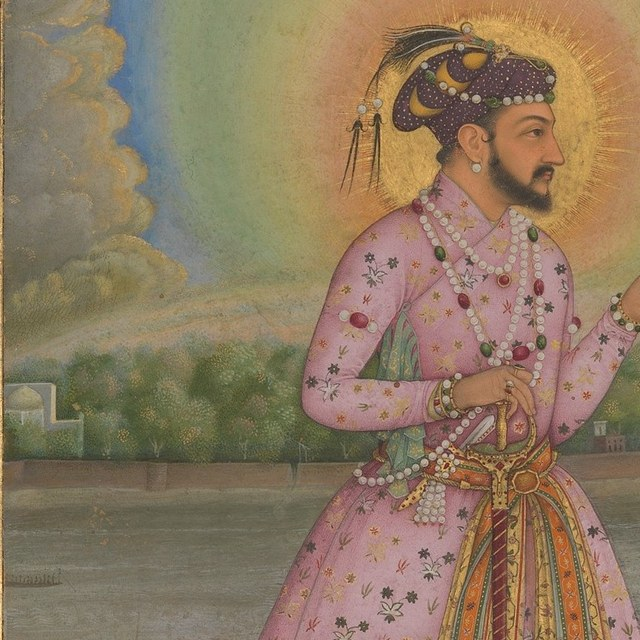
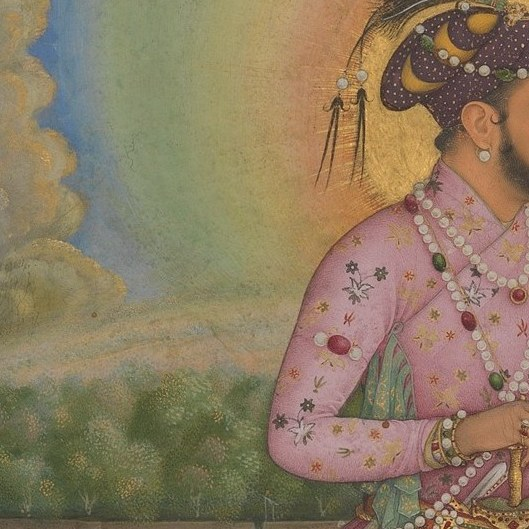
H5528: второй проход по находкам верификатора (clamp, px-норма, 3 бокса, red-line по MET)
- crop_fragment.py: clamp >2px → [warn] с фактическим центром (было молча);
  [warn] при фрагменте <500px; контактный лист 420px/ячейка
- перекроплены SM-002 (сцена «отпущены с почётом»), SM-005, SM-007 (деталь,
  не целая композиция), SM-003 (бокс внутрь листа, без clamp)
- README: честная формулировка (норма ~600px, код ≤640 без апскейла) + сноска
  на лист-ветку; CHANGELOG [Unreleased]
- review/genre-format-census_27-09-2026.md — сырые замеры жанра (8 образцов)
- red line №2: MET API 38038 = «A Lady Playing the Tanpura» (Women/Musicians),
  придворная дама, не богиня

diff --git a/tools/crop_fragment.py b/tools/crop_fragment.py
@@ -51,12 +51,16 @@ def crop_square(im, box, long_edge):
     side = max(64, int(round(frac * min(w, h))))
     x0 = int(round(cx * w - side / 2))
     y0 = int(round(cy * h - side / 2))
-    x0 = max(0, min(x0, w - side))
+    xc, yc = x0, y0                       # запрошенный угол
+    x0 = max(0, min(x0, w - side))        # clamp: угол внутри листа
     y0 = max(0, min(y0, h - side))
+    clamped = abs(x0 - xc) > 2 or abs(y0 - yc) > 2   # >2 px — не округление, а сдвиг
     frag = im.crop((x0, y0, x0 + side, y0 + side))
     if frag.size[0] > long_edge:
         frag = frag.resize((long_edge, long_edge), LANCZOS)
-    return frag, side
+    real_cx = (x0 + side / 2) / w
+    real_cy = (y0 + side / 2) / h
+    return frag, side, clamped, (real_cx, real_cy)
 
 
 def main():
@@ -83,7 +87,15 @@ def main():
         im = Image.open(master).convert("RGB")
         if max(im.size) < MIN_MASTER:
             warns.append(f"{cid}: мастер {im.size} < {MIN_MASTER} — фрагмент выйдет мягким, нужен пере-источник")
-        frag, side = crop_square(im, r["fragment_box"], args.long)
+        frag, side, clamped, real = crop_square(im, r["fragment_box"], args.long)
+        if clamped:
+            cx, cy, _ = parse_box(r["fragment_box"])
+            warns.append(f"{cid}: fragment_box вне диапазона — центр сдвинут "
+                         f"({cx:.2f},{cy:.2f} → {real[0]:.2f},{real[1]:.2f}); "
+                         f"уменьшите frac или сдвиньте cx,cy внутрь листа")
+        if side < 500:
+            warns.append(f"{cid}: фрагмент {side}px < 500 — жанровая норма ~600 px; "
+                         f"мастер мелкий, нужен пере-источник")
         out = os.path.join("images", "fragments", f"{cid}.jpg")
         frag.save(os.path.join(REPO, out), quality=88, optimize=True)
         r["fragment_file"] = out
@@ -105,7 +117,7 @@ def main():
         print(f"[ok] fragment_file проставлен в memes.tsv ({len(done)} строк)")
 
     if args.sheet and done:
-        cell, cols = 300, 4
+        cell, cols = 420, 4
         picked = [r for r in rows if (r.get("fragment_box") or "").strip()]
         picked = [r for r in picked if os.path.exists(os.path.join(REPO, r["fragment_file"] or
                                                                    os.path.join("images", "fragments", r["id"] + ".jpg")))]

diff --git a/CHANGELOG.md b/CHANGELOG.md
@@ -2,6 +2,8 @@
 
 ## [Unreleased]
 
+- **Второй проход 27-09-2026 по находкам парного верификатора (DeepSeek, класс publication):** молчаливый clamp `fragment_box` больше не глотается (>2 px сдвиг → `[warn]` с фактическим центром); добавлено предупреждение «фрагмент <500 px»; README перестал обещать «~600 px» как гарантию (норма жанра ~600, код ≤640 без апскейла); сырые замеры жанра сохранены файлом `review/genre-format-census_27-09-2026.md`. Перекроплены SM-002 (в кадр попала сцена «отпущены с почётом» — Рама отпускает лазутчиков), SM-005 и SM-007 (ужаты до детали, а не целой композиции), SM-003 (бокс внутрь листа). Красная линия №2 проверена по MET API: SM-006 = «A Lady Playing the Tanpura» (Kishangarh, теги Women/Musicians) — придворная дама, не богиня.
+
 - Формат изображения приведён к жанру: **фрагмент детали, не целый лист** (рулинг MG 27-09-2026, «вспоминаю кропнутые фрагменты и очень короткий текст» — подтверждено замером). Живой паблик `t.me/medieval_suffering`, 8 образцов подряд 27-09-2026: длинная сторона ровно ~600 px, 6 из 8 — квадрат (ar 0,97–1,11), «широкие» — тоже кропы. Введены колонки `fragment_box` (cx,cy,frac — доля меньшей стороны мастера) и `fragment_file`; нарезаны 7 фрагментов партии 1 (`images/fragments/*.jpg`), контактный лист `review/fragments_sheet.png`; новый инструмент `tools/crop_fragment.py` (Pillow, `--sheet`, `--write-tsv`); `gen_pilot_sheet.py` теперь показывает постимый фрагмент и не требует ровно 10 строк (после отклонения SM-008…010). Остаток: SM-003 (мастер 800×547) — пере-источник под правило «мастер ≥1500 px».
 
 ## [0.1.1] - 2026-09-26

diff --git a/README.md b/README.md
@@ -40,12 +40,22 @@ _Создан: 26-09-2026 · Мем-паблик «Страдающее Сред
 1. **Мастер** (`file`) остаётся целым листом — он провенанс и лицензия.
 2. **В пост уходит `fragment_file`** — квадратный кроп до смысловой детали;
    `fragment_box` = `cx,cy,frac` (центр в долях Ш/В, сторона квадрата — доля
-   меньшей стороны мастера), длинная сторона ≤ 640 px.
-3. **Мастер короче 1500 px в кропе мылит** — такой источник пере-искать
-   (SM-003 партии 1 идёт с пометкой).
-4. Кроп генерит `python3 tools/crop_fragment.py --sheet --write-tsv` (Pillow);
+   меньшей стороны мастера). Кроп не апскейлится: длинная сторона ≤ 640 px,
+   и если мастер мельче, инструмент предупреждает вместо тихого мыла.
+3. **Мастер короче 1500 px → пере-искать** (инструмент печатает `[warn]`
+   SM-003 партии 1: 800×547 → фрагмент 274 px).
+4. `fragment_box` вне листа инструмент **не глотает молча**: сдвиг >2 px →
+   `[warn]` с фактическим центром (найдено верификатором 27-09-2026,
+   исправлено там же).
+5. Кроп генерит `python3 tools/crop_fragment.py --sheet --write-tsv` (Pillow);
    контактный лист `review/fragments_sheet.png` — глазная проверка перед листом
    утверждения. Ручной кроп заменяемого мастера не требует: правится `fragment_box`.
+
+Замер жанра (8 образцов t.me/medieval_suffering, размеры сняты механически):
+[review/genre-format-census_27-09-2026.md](review/genre-format-census_27-09-2026.md).
+
+Сноска: лист утверждения партии 1 (26-09-2026) показывает **мастера** — он остаётся
+записью голосования MG; листы, собранные после 27-09-2026, показывают `fragment_file`.
 
 
 ## Реестр — memes.tsv

diff --git a/review/genre-format-census_27-09-2026.md b/review/genre-format-census_27-09-2026.md
@@ -1,0 +1,27 @@
+# Жанровый формат «Страдающего Средневековья» — сырые замеры (27-09-2026)
+
+Источник: живой паблик **t.me/medieval_suffering**, 8 подряд идущих постов со
+встроенными подписями (тексты постов служебные — подписи запечены в картинках).
+Снято: `python3 -c "from PIL import Image; ..."` (механически, 27-09-2026).
+
+| # | размер | ar (Ш/В) | класс |
+|---|--------|----------|-------|
+| 0 | 597×403 | 1,48 | широкий кроп (лицо крупным планом) |
+| 1 | 597×599 | 1,00 | квадрат (деталь Босха) |
+| 2 | 579×595 | 0,97 | квадрат (гравюра + речевые пузыри — вторичный формат) |
+| 3 | 598×596 | 1,00 | квадрат (деталь: монах с топором) |
+| 4 | 595×595 | 1,00 | квадрат |
+| 5 | 597×538 | 1,11 | квадрат |
+| 6 | 597×597 | 1,00 | квадрат |
+| 7 | 596×444 | 1,34 | широкий кроп |
+
+Вердикт: **6/8 — квадрат ar 0,97–1,11; длинная сторона ВСЕГДА ~600 px**;
+оба «широких» — тоже плотные кропы (лицо, деталь), не листы. Целых листов с
+рамкой и полями в выборке нет. Формулировка MG 27-09-2026: «вспоминаю кропнутые
+фрагменты и очень короткий текст» — подтверждено.
+
+Ограничение: одна площадка (t.me) + статья Вокруг света (косвенно: «Фрагмент
+фрески…», «конь — деталь миниатюры»). VK-паблик жанра веб-превью не отдаёт
+(302/логин-стена) — вторая площадка не проверена.
+
+_Гасунс_
